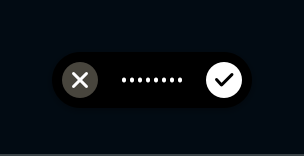
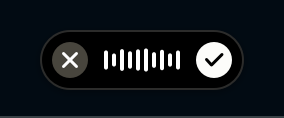
Pill matches Wispr within 1 pt (102x30 + 1pt outline, 10 bars, 14 pt up); bars scale in place (attack/decay, no sweep); Wispr research doc

diff --git a/Sources/DictateAppKit/PillPanel.swift b/Sources/DictateAppKit/PillPanel.swift
@@ -5,14 +5,16 @@ import AppKit
 public final class PillPanel {
     public enum Mode: Equatable { case hidden, warming, recording, transcribing, error }
 
-    /// Measured from Wispr Flow's own pill (2x capture ÷ 2): 100 × 28 pt.
-    public static let capsuleSize = NSSize(width: 100, height: 28)
+    /// Measured from Wispr Flow's own pill on this Mac (2026-10-09 01:01, 2x
+    /// capture ÷ 2): 102 × 30 pt including a 1 pt #20201F outline.
+    public static let capsuleSize = NSSize(width: 102, height: 30)
     /// Transparent margin around the capsule so its soft shadow is not clipped.
     public static let shadowMargin: CGFloat = 6
     public static var size: NSSize {
         NSSize(width: capsuleSize.width + 2 * shadowMargin, height: capsuleSize.height + 2 * shadowMargin)
     }
-    public static let dockGap: CGFloat = 24
+    /// Wispr sits 14 pt above the bottom of the screen's usable area.
+    public static let dockGap: CGFloat = 14
 
     public var onCancel: (() -> Void)? {
         get { pillView.onCancel }
@@ -53,8 +55,14 @@ public final class PillPanel {
     }
 
     public func push(level: Float) {
+        guard !demoLevels else { return }
         pillView.push(level: CGFloat(level))
     }
+
+    /// QA lever (DICTATE_DEMO_LEVELS=1): drive the bars with a synthetic voice
+    /// level so the animation can be captured without anyone speaking.
+    private let demoLevels = ProcessInfo.processInfo.environment["DICTATE_DEMO_LEVELS"] == "1"
+    private var demoPhase: CGFloat = 0
 
     public func show(_ newMode: Mode) {
         errorHideWork?.cancel()
@@ -98,7 +106,12 @@ public final class PillPanel {
     private func startAnimating() {
         guard animationTimer == nil else { return }
         let timer = Timer(timeInterval: 1.0 / 30.0, repeats: true) { [weak self] _ in
-            self?.pillView.tick()
+            guard let self else { return }
+            if self.demoLevels {
+                self.demoPhase += 1.0 / 30.0
+                self.pillView.push(level: 0.55 + 0.4 * sin(self.demoPhase * 5))
+            }
+            self.pillView.tick()
         }
         RunLoop.main.add(timer, forMode: .common)
         animationTimer = timer
@@ -116,18 +129,30 @@ final class PillView: NSView {
     var mode: PillPanel.Mode = .hidden { didSet { needsDisplay = true } }
 
     private static let capsuleColor = NSColor.black
+    private static let outlineColor = NSColor(srgbRed: 0x20 / 255.0, green: 0x20 / 255.0, blue: 0x1F / 255.0, alpha: 1)
     private static let cancelFill = NSColor(srgbRed: 0x3E / 255.0, green: 0x3B / 255.0, blue: 0x32 / 255.0, alpha: 1)
-    static let barCount = 8
+    private static let finishFill = NSColor(srgbRed: 0xFC / 255.0, green: 0xFC / 255.0, blue: 0xFA / 255.0, alpha: 1)
+    static let outlineWidth: CGFloat = 1
+    static let barCount = 10
     static let buttonDiameter: CGFloat = 18
-    static let buttonInset: CGFloat = 5
+    /// From the capsule's outer edge to the button (1 pt outline + 5 pt).
+    static let buttonInset: CGFloat = 6
     static let barWidth: CGFloat = 2
     static let barGap: CGFloat = 2
-    static let barIdleHeight: CGFloat = 2.5
-    static let barPeakHeight: CGFloat = 14
+    static let barIdleHeight: CGFloat = 2
+    static let barPeakHeight: CGFloat = 16
+    /// Smoothing for the in-place bar motion (~50 ms attack, ~250 ms decay at 30 fps).
+    static let attack: CGFloat = 0.48
+    static let decay: CGFloat = 0.124
 
-    private var levels = [CGFloat](repeating: 0, count: PillView.barCount)
-    private var displayed = [CGFloat](repeating: 0, count: PillView.barCount)
+    /// Latest mic level and its smoothed value. Bars never scroll: each one
+    /// scales about its own centre from this single level times a slow per-bar
+    /// variation, so the pill "breathes" like Wispr's instead of sweeping.
+    private var target: CGFloat = 0
+    private(set) var smoothed: CGFloat = 0
     private var phase: CGFloat = 0
+    private let barSpeed: [CGFloat] = (0..<PillView.barCount).map { 2.1 + CGFloat(($0 * 7) % 5) * 0.37 }
+    private let barOffset: [CGFloat] = (0..<PillView.barCount).map { CGFloat(($0 * 3) % 7) * 0.9 }
 
     override var isFlipped: Bool { false }
     override func acceptsFirstMouse(for event: NSEvent?) -> Bool { true }
@@ -145,21 +170,32 @@ final class PillView: NSView {
     }
 
     func resetLevels() {
-        levels = [CGFloat](repeating: 0, count: PillView.barCount)
-        displayed = levels
+        target = 0
+        smoothed = 0
     }
 
     func push(level: CGFloat) {
-        levels.removeFirst()
-        levels.append(max(0, min(1, level)))
+        target = max(0, min(1, level))
     }
 
     func tick() {
         phase += 1.0 / 30.0
-        for i in displayed.indices {
-            displayed[i] += (levels[i] - displayed[i]) * 0.45
-        }
+        smoothed += (target - smoothed) * (target > smoothed ? PillView.attack : PillView.decay)
         needsDisplay = true
+    }
+
+    /// Height of bar `i` right now (x never changes; only this does).
+    func barHeight(_ i: Int) -> CGFloat {
+        let variation = 0.55 + 0.45 * (0.5 + 0.5 * sin(phase * barSpeed[i] + barOffset[i]))
+        let centre = 1 - abs(CGFloat(i) - CGFloat(PillView.barCount - 1) / 2) / CGFloat(PillView.barCount) * 0.6
+        return PillView.barIdleHeight + (PillView.barPeakHeight - PillView.barIdleHeight) * smoothed * variation * centre
+    }
+
+    /// x of bar `i` — fixed, centred between the two buttons.
+    func barX(_ i: Int) -> CGFloat {
+        let total = CGFloat(PillView.barCount) * PillView.barWidth + CGFloat(PillView.barCount - 1) * PillView.barGap
+        let start = ((cancelRect.maxX + finishRect.minX) / 2 - total / 2).rounded()
+        return start + CGFloat(i) * (PillView.barWidth + PillView.barGap)
     }
 
     override func mouseDown(with event: NSEvent) {
@@ -176,15 +212,19 @@ final class PillView: NSView {
         bounds.fill()
         let c = capsuleRect
         let capsule = NSBezierPath(roundedRect: c, xRadius: c.height / 2, yRadius: c.height / 2)
+        let inner = c.insetBy(dx: PillView.outlineWidth, dy: PillView.outlineWidth)
+        let fill = NSBezierPath(roundedRect: inner, xRadius: inner.height / 2, yRadius: inner.height / 2)
         NSGraphicsContext.saveGraphicsState()
         let shadow = NSShadow()
         shadow.shadowColor = NSColor.black.withAlphaComponent(0.35)
         shadow.shadowBlurRadius = 4
         shadow.shadowOffset = NSSize(width: 0, height: -1)
         shadow.set()
-        PillView.capsuleColor.setFill()
+        PillView.outlineColor.setFill()
         capsule.fill()
         NSGraphicsContext.restoreGraphicsState()
+        PillView.capsuleColor.setFill()
+        fill.fill()
 
         drawCancelButton()
         drawFinishButton()
@@ -213,7 +253,7 @@ final class PillView: NSView {
     }
 
     private func drawFinishButton() {
-        NSColor.white.withAlphaComponent(mode == .recording ? 1 : 0.55).setFill()
+        PillView.finishFill.withAlphaComponent(mode == .recording ? 1 : 0.55).setFill()
         NSBezierPath(ovalIn: finishRect).fill()
         NSColor.black.setStroke()
         let c = NSPoint(x: finishRect.midX, y: finishRect.midY)
@@ -230,18 +270,13 @@ final class PillView: NSView {
     /// `live: false` = WARMING: grey, flat, still — the mic is not delivering
     /// audio yet (Bluetooth profile switch).
     private func drawBars(live: Bool) {
-        let barWidth = PillView.barWidth, gap = PillView.barGap
-        let total = CGFloat(PillView.barCount) * barWidth + CGFloat(PillView.barCount - 1) * gap
-        // Centred between the two buttons.
-        var x = ((cancelRect.maxX + finishRect.minX) / 2 - total / 2).rounded()
+        let barWidth = PillView.barWidth
         (live ? NSColor.white : NSColor(white: 0.45, alpha: 1)).setFill()
         for i in 0..<PillView.barCount {
-            // Quiet = flat 2.5 pt dashes, like Wispr; voice lifts them toward 14 pt.
-            let level = live ? displayed[i] : 0
-            let h = PillView.barIdleHeight + (PillView.barPeakHeight - PillView.barIdleHeight) * level
-            let rect = NSRect(x: x, y: capsuleRect.midY - h / 2, width: barWidth, height: h)
+            // Quiet = 2 pt dots, like Wispr; voice scales each bar in place.
+            let h = live ? barHeight(i) : PillView.barIdleHeight
+            let rect = NSRect(x: barX(i), y: capsuleRect.midY - h / 2, width: barWidth, height: h)
             NSBezierPath(roundedRect: rect, xRadius: barWidth / 2, yRadius: barWidth / 2).fill()
-            x += barWidth + gap
         }
     }
 

diff --git a/Tests/DictateAppKitTests/PasteboardRestoreTests.swift b/Tests/DictateAppKitTests/PasteboardRestoreTests.swift
@@ -74,23 +74,35 @@ struct PasteboardRestoreTests {
     }
 
     @Test func pillGeometryMatchesWispr() {
-        #expect(PillPanel.capsuleSize == NSSize(width: 100, height: 28))
-        #expect(PillPanel.dockGap == 24)
+        // Measured from Wispr's own pill (2x capture ÷ 2), 2026-10-09 01:01.
+        #expect(PillPanel.capsuleSize == NSSize(width: 102, height: 30))
+        #expect(PillPanel.dockGap == 14)
         let view = PillView(frame: NSRect(origin: .zero, size: PillPanel.size))
         let capsule = view.capsuleRect
-        #expect(capsule.size == NSSize(width: 100, height: 28))
         #expect(view.cancelRect.size == NSSize(width: 18, height: 18))
-        #expect(view.finishRect.size == NSSize(width: 18, height: 18))
-        #expect(view.cancelRect.minX - capsule.minX == 5)
-        #expect(capsule.maxX - view.finishRect.maxX == 5)
+        #expect(view.cancelRect.minX - capsule.minX == 6)
+        #expect(capsule.maxX - view.finishRect.maxX == 6)
         #expect(view.cancelRect.midY == capsule.midY)
-        #expect(PillView.barCount == 8)
+        #expect(PillView.barCount == 10)
         #expect(PillView.barWidth + PillView.barGap == 4)
-        #expect(PillView.barIdleHeight == 2.5)
-        #expect(PillView.barPeakHeight == 14)
-        // 8 bars at 4 pt pitch fit between the buttons.
-        let strip = CGFloat(PillView.barCount) * PillView.barWidth + CGFloat(PillView.barCount - 1) * PillView.barGap
-        #expect(strip == 30)
-        #expect(strip < view.finishRect.minX - view.cancelRect.maxX)
+        #expect(PillView.barIdleHeight == 2)
+        #expect(view.barX(0) - capsule.minX == 32)
+        #expect(view.barX(9) + PillView.barWidth - capsule.minX == 70)
+    }
+
+    @Test func barsScaleInPlaceAndNeverMoveSideways() {
+        let view = PillView(frame: NSRect(origin: .zero, size: PillPanel.size))
+        let xs = (0..<PillView.barCount).map(view.barX)
+        var heights: [[CGFloat]] = []
+        for step in 0..<12 {
+            view.push(level: step < 6 ? 0.9 : 0.1)
+            view.tick()
+            heights.append((0..<PillView.barCount).map(view.barHeight))
+            #expect((0..<PillView.barCount).map(view.barX) == xs)   // no horizontal motion, ever
+        }
+        #expect(heights[3].allSatisfy { $0 > PillView.barIdleHeight })      // fast attack
+        #expect(heights[3] != heights[4])                                    // still alive, not frozen
+        #expect(view.smoothed > 0.1 && view.smoothed < 0.9)                  // slow decay after the drop
+        #expect(heights.joined().allSatisfy { $0 <= PillView.barPeakHeight })
     }
 }
